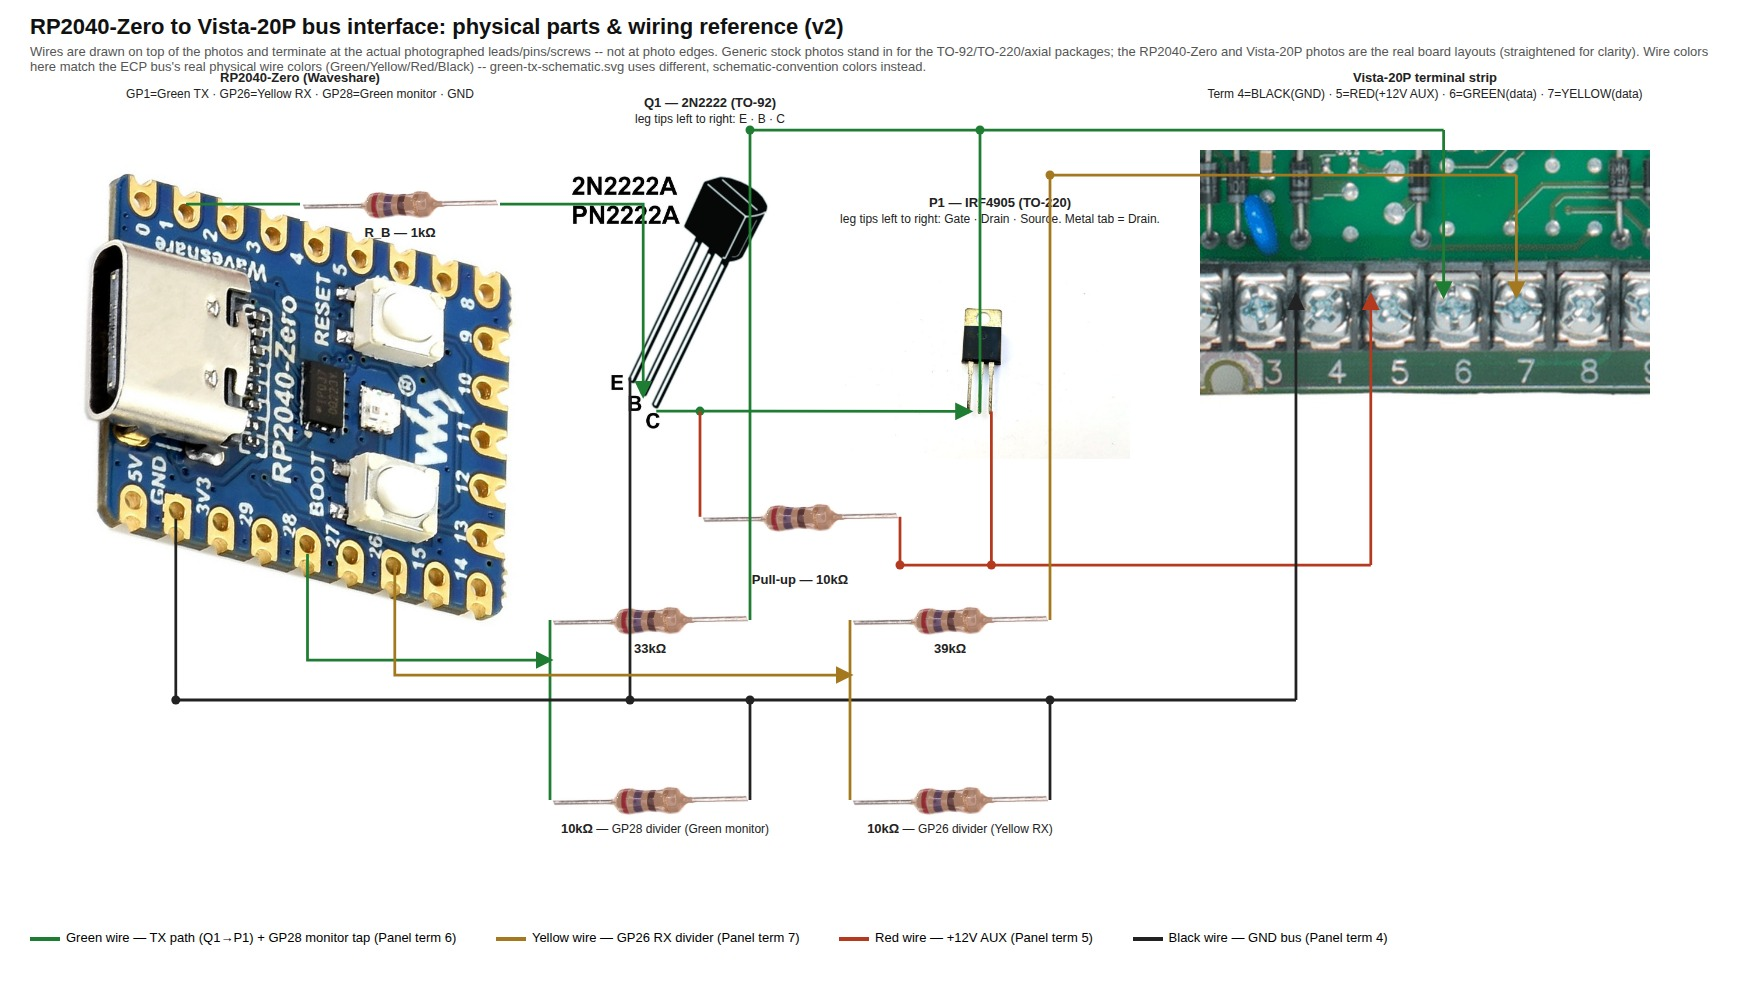
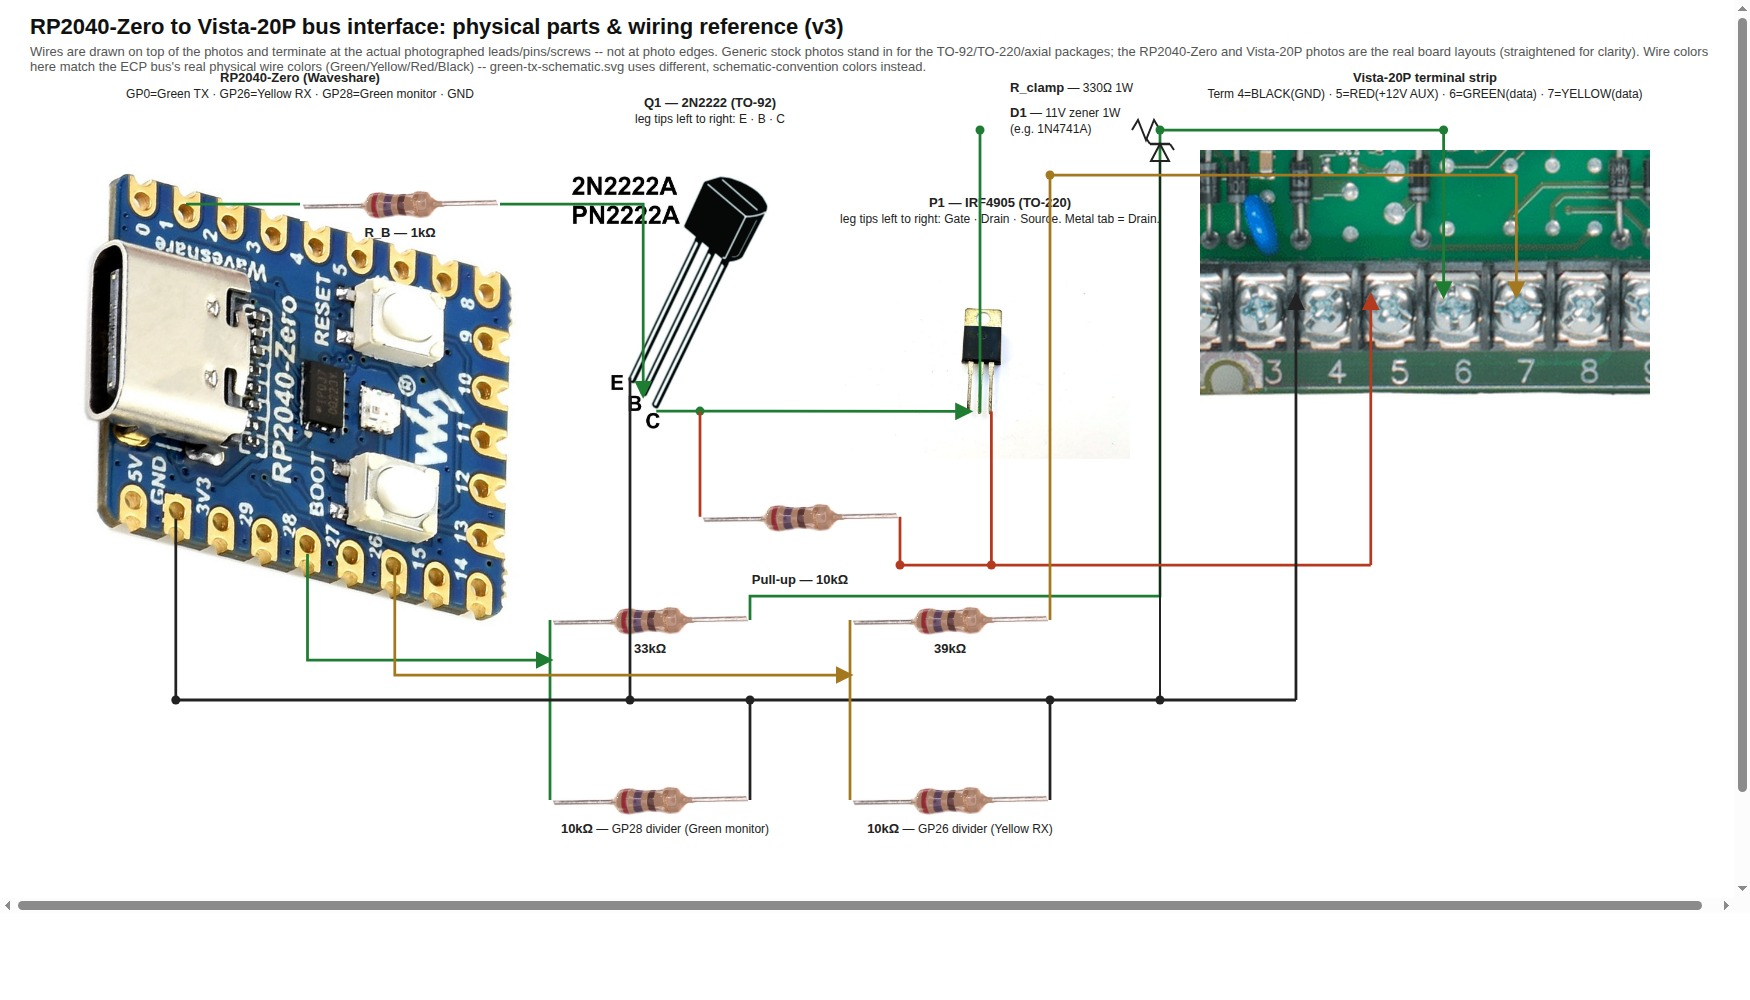
Add R_clamp+D1 voltage clamp to the Green TX diagrams; fix stale GP1 labels (#95)
Scoping a real keypad's key-send against our own device's, same bus,
same reference, same cursor measurement: the real keypad peaks at
~11.7V; our device (P1 sourcing Green directly from the raw AUX rail)
peaks at ~14.2V. That ~2.5V gap was invisible to every prior local
scope measurement in this project (always referenced to this board's
own ground) and only showed up once measured side by side against a
real keypad. It's the most concrete remaining difference found after
checksum, bit polarity, framing, batching, ack mechanism, and response
timing were each individually ruled out or verified correct.

Adds R_clamp (330 ohm) + D1 (11V zener, shunt to GND) between P1's
drain and Green in both docs/hardware/green-tx-schematic.svg and
green-tx-photo-reference.html (regenerating their .jpg renders), sized
against the bench-measured ~14V AUX rail with a fault-current margin
for a shorted bus. The GP28 monitor tap in both diagrams is rewired to
read the clamped side of that node, same as it would tap the same real
physical Green wire on the actual bench build.

Also fixes both diagrams' Green TX pin label, which still said GP1 from
before the GP0 pin move (PR #84) -- missed at the time since GP0 wasn't
yet confirmed working. Adds a matching dated update to
HARDWARE_ARCHITECTURE.md's "Still open" item 1.

Claude-Session: https://claude.ai/code/session_01LoZdpHVGNxDdSZK8Eq1p6C

diff --git a/docs/hardware/green-tx-photo-reference.html b/docs/hardware/green-tx-photo-reference.html
@@ -25,13 +25,13 @@
 </head>
 <body>
 
-  <div class="title">RP2040-Zero to Vista-20P bus interface: physical parts &amp; wiring reference (v2)</div>
+  <div class="title">RP2040-Zero to Vista-20P bus interface: physical parts &amp; wiring reference (v3)</div>
   <div class="subtitle">Wires are drawn on top of the photos and terminate at the actual photographed leads/pins/screws -- not at photo edges. Generic stock photos stand in for the TO-92/TO-220/axial packages; the RP2040-Zero and Vista-20P photos are the real board layouts (straightened for clarity). Wire colors here match the ECP bus's real physical wire colors (Green/Yellow/Red/Black) -- green-tx-schematic.svg uses different, schematic-convention colors instead.</div>
 
   <!-- ===== Photos (drawn first, wires layer on top of them) ===== -->
 
   <img class="part" src="photos/rp2040-zero.jpg" style="left:60px; top:150px; width:480px; height:498px;">
-  <div class="label" style="left:60px; top:70px; width:480px;"><b>RP2040-Zero (Waveshare)</b><br>GP1=Green TX &middot; GP26=Yellow RX &middot; GP28=Green monitor &middot; GND</div>
+  <div class="label" style="left:60px; top:70px; width:480px;"><b>RP2040-Zero (Waveshare)</b><br>GP0=Green TX &middot; GP26=Yellow RX &middot; GP28=Green monitor &middot; GND</div>
 
   <img class="part" src="photos/resistor.jpg" style="left:300px; top:187px; width:200px; height:33.6px;">
   <div class="label" style="left:300px; top:225px; width:200px;"><b>R_B &mdash; 1k&#937;</b></div>
@@ -44,6 +44,9 @@
 
   <img class="part" src="photos/to220-mosfet.jpg" style="left:830px; top:259px; width:300px; height:199.8px;">
   <div class="label" style="left:825px; top:195px; width:350px;"><b>P1 &mdash; IRF4905 (TO-220)</b><br>leg tips left to right: Gate &middot; Drain &middot; Source. Metal tab = Drain.</div>
+
+  <div class="label" style="left:1010px; top:80px; width:170px; text-align:left;"><b>R_clamp</b> &mdash; 330&#937; 1W</div>
+  <div class="label" style="left:1010px; top:105px; width:170px; text-align:left;"><b>D1</b> &mdash; 11V zener 1W<br>(e.g. 1N4741A)</div>
 
   <img class="part" src="photos/vista20p-terminals.jpg" style="left:1200px; top:150px; width:450px; height:291.2px;">
   <div class="label" style="left:1200px; top:70px; width:450px;"><b>Vista-20P terminal strip</b><br>Term 4=BLACK(GND) &middot; 5=RED(+12V AUX) &middot; 6=GREEN(data) &middot; 7=YELLOW(data)</div>
@@ -76,10 +79,39 @@
     <path d="M 980,412.6 L 980,130" stroke="#1e7d32" stroke-width="2.75" fill="none"/>
     <path d="M 307.5,554.1 L 307.5,660 L 550,660" stroke="#1e7d32" stroke-width="2.75" fill="none" marker-end="url(#aGreen)"/>
     <path d="M 550,620 L 550,800" stroke="#1e7d32" stroke-width="2.75" fill="none"/>
-    <path d="M 750,620 L 750,130" stroke="#1e7d32" stroke-width="2.75" fill="none"/>
-    <path d="M 750,130 L 1443.6,130" stroke="#1e7d32" stroke-width="2.75" fill="none"/>
-    <circle cx="750" cy="130" r="4.5" fill="#1e7d32"/>
+    <!-- 33k resistor's far lead (GP28 monitor divider's own "Green bus"
+         input) jogs right to join the rail at x=1160, on the clamped
+         side of R_clamp/D1 below; it needs to read the same clamped
+         voltage the panel itself sees, same as it would tap the same
+         real physical Green wire on the actual bench build (same fix as
+         green-tx-schematic.svg's Lane B). -->
+    <path d="M 750,620 L 750,596 L 1160,596 L 1160,130" stroke="#1e7d32" stroke-width="2.75" fill="none"/>
     <circle cx="980" cy="130" r="4.5" fill="#1e7d32"/>
+
+    <!-- R_clamp + D1: no stock photo for a zener, so drawn as plain
+         schematic symbols here rather than a photo -- see
+         green-tx-schematic.svg for the authoritative version. Kept at
+         x<1195 (the Vista-20P terminal photo starts at x=1200) so
+         nothing here overlaps it. Clamps P1's drain (raw AUX rail, ~14V
+         measured) down to roughly a real keypad's own output (~11.7V
+         measured) before Green reaches the panel; see
+         HARDWARE_ARCHITECTURE.md "Still open" item 1 for why. -->
+    <path d="M 1132,130 L 1138,120 L 1146,140 L 1154,120 L 1160,130" stroke="#222" stroke-width="2" fill="none"/>
+    <circle cx="1160" cy="130" r="4.5" fill="#1e7d32"/>
+    <path d="M 1160,130 L 1160,144" stroke="#1e7d32" stroke-width="2" fill="none"/>
+    <path d="M 1150,144 L 1170,144" stroke="#222" stroke-width="2.5" fill="none"/>
+    <path d="M 1150,144 L 1146,138" stroke="#222" stroke-width="2" fill="none"/>
+    <path d="M 1170,144 L 1174,150" stroke="#222" stroke-width="2" fill="none"/>
+    <path d="M 1151,161 L 1169,161 L 1160,144 Z" stroke="#222" stroke-width="2" fill="none"/>
+    <!-- Plain wire from here to GND -- the diode symbol itself stays
+         above y=161, clear of the gold Yellow-wire crossing at y=175
+         below (no junction dot there, see the note above Lane A in the
+         schematic for the same convention). -->
+    <path d="M 1160,161 L 1160,700" stroke="#222" stroke-width="2" fill="none"/>
+    <circle cx="1160" cy="700" r="4.5" fill="#222"/>
+
+    <path d="M 1160,130 L 1443.6,130" stroke="#1e7d32" stroke-width="2.75" fill="none"/>
+    <circle cx="1443.6" cy="130" r="4.5" fill="#1e7d32"/>
     <path d="M 1443.6,130 L 1443.6,295.6" stroke="#1e7d32" stroke-width="2.75" fill="none" marker-end="url(#aGreen)"/>
 
     <!-- Red: +12V AUX rail (Panel RED) -->
@@ -113,7 +145,7 @@
   </svg>
 
   <div class="legend">
-    <span class="row"><span class="swatch" style="background:#1e7d32;"></span>Green wire &mdash; TX path (Q1&rarr;P1) + GP28 monitor tap (Panel term 6)</span>
+    <span class="row"><span class="swatch" style="background:#1e7d32;"></span>Green wire &mdash; TX path (Q1&rarr;P1&rarr;R_clamp/D1) + GP28 monitor tap (Panel term 6)</span>
     <span class="row"><span class="swatch" style="background:#a3781f;"></span>Yellow wire &mdash; GP26 RX divider (Panel term 7)</span>
     <span class="row"><span class="swatch" style="background:#b5391f;"></span>Red wire &mdash; +12V AUX (Panel term 5)</span>
     <span class="row"><span class="swatch" style="background:#222;"></span>Black wire &mdash; GND bus (Panel term 4)</span>

diff --git a/HARDWARE_ARCHITECTURE.md b/HARDWARE_ARCHITECTURE.md
@@ -128,11 +128,11 @@ after GP1 was also found dead. GP1 itself is now unused.
 
 ### Complete bus interface schematic
 
-![RP2040-Zero to Vista-20P bus interface schematic: board silhouette (pin layout matching the Waveshare pinout reference photo) showing all circuits -- Green TX (GP1 through a 1kΩ base resistor to Q1, a 2N2222 NPN pre-driver, whose collector drives P1's gate through a 10kΩ pull-up to a new +12V AUX rail; P1, an IRF4905 P-channel MOSFET, sources current from that same AUX rail onto Green through its drain when Q1 pulls its gate low), the Green bus-monitor divider (GP28, 33k/10k), and the Yellow RX divider (GP26, 39k/10k) -- plus a shared GND bus tying the physical GND pin, Q1's emitter, and both dividers to the panel's GND terminal, and the Vista-20P's own 4-terminal bus block (GREEN, RED now wired as the +12V AUX source, BLACK, YELLOW) on the right](docs/hardware/green-tx-schematic.jpg)
+![RP2040-Zero to Vista-20P bus interface schematic: board silhouette (pin layout matching the Waveshare pinout reference photo) showing all circuits -- Green TX (GP0 through a 1kΩ base resistor to Q1, a 2N2222 NPN pre-driver, whose collector drives P1's gate through a 10kΩ pull-up to a new +12V AUX rail; P1, an IRF4905 P-channel MOSFET, sources current from that same AUX rail onto Green through its drain when Q1 pulls its gate low, through a 330Ω series resistor and an 11V zener shunt to GND that clamp Green's peak to roughly a real keypad's own output level instead of the raw AUX rail), the Green bus-monitor divider (GP28, 33k/10k, tapping the clamped side of that same node), and the Yellow RX divider (GP26, 39k/10k) -- plus a shared GND bus tying the physical GND pin, Q1's emitter, and both dividers to the panel's GND terminal, and the Vista-20P's own 4-terminal bus block (GREEN, RED now wired as the +12V AUX source, BLACK, YELLOW) on the right](docs/hardware/green-tx-schematic.jpg)
 
 (Source vector version: `docs/hardware/green-tx-schematic.svg`, same content.)
 
-Board silhouette and pin positions (GND/GP1 on the top board, GP26/GP27/
+Board silhouette and pin positions (GND/GP0 on the top board, GP26/GP27/
 GP28 further down the left column) match the Waveshare RP2040-Zero's own
 pinout reference photo. The board also breaks GND out again on its
 underside pin group (same net) — either GND pad works for the panel tie.
@@ -160,13 +160,26 @@ doesn't show visually:
   driving an idle-low line any higher, which is why neither of those
   earlier designs ever produced an effect on the bus. P1 instead sources
   current onto Green from the new +12V AUX rail; since P1's source sits
-  at +12V rather than GND, GP1 can't drive its gate directly (both logic
+  at +12V rather than GND, GP0 can't drive its gate directly (both logic
   levels would leave Vgs strongly negative), so Q1 acts as an
-  open-collector level shifter: GP1 high pulls Q1's collector (P1's gate)
-  down near 0V, giving P1 a strongly negative Vgs and turning it on; GP1
+  open-collector level shifter: GP0 high pulls Q1's collector (P1's gate)
+  down near 0V, giving P1 a strongly negative Vgs and turning it on; GP0
   low lets the 10kΩ pull-up hold P1's gate at +12V, Vgs=0, off. See
   "Still open" item 1 for the full story of why the low-side approach was
   abandoned after this was discovered.
+- **P1's drain doesn't drive Green straight from the raw AUX rail.**
+  Driving Green directly from P1's drain peaked at ~14.2V on scope
+  (cursor measurement) — a real keypad's own key-send peaks at only
+  ~11.7V on the same bus, measured the same way, same reference. That
+  gap was invisible from this project's own local measurements (always
+  referenced to this board's own ground) and only showed up once a real
+  keypad and this device were scoped side by side sending the same key.
+  A 330Ω series resistor (R_clamp) into an 11V zener (D1, shunt to GND)
+  now hold Green's peak to roughly what a real keypad itself produces
+  instead of the bare AUX rail — see "Still open" item 1's voltage-clamp
+  update for the full story, including why every other candidate
+  (checksum, bit polarity, framing, batching, ack mechanism, response
+  timing) was ruled out first.
 
 ### Physical parts & wiring photo reference
 
@@ -630,6 +643,43 @@ Vista panel keypad bus (4-wire ECP)
    the pin table above), which was already free. Physical wiring must move
    the 1kΩ base resistor's input lead from GP1 to GP0 to match. Live retest
    against the real panel on GP0 pending.
+
+   **Update (GP0 confirmed live, full high-side chain scope-verified, panel
+   still not accepting key data -- root cause found: Green's peak voltage):**
+   GP0 confirmed live and correctly toggling at the header; the signal
+   survives R_B to Q1's base with correct clamped diode behavior; node A
+   (Q1 collector/P1 gate) swings correctly between ~13.8V idle and ~0V in
+   sync with drive pulses; Green itself pulses correctly from ~0V idle up
+   to AUX rail voltage in sync. The whole redesigned high-side circuit is
+   electrically sound. Several non-hardware hypotheses were tested and
+   ruled out along the way: an `invertTx=false` firmware change (wrong —
+   flipped GP0's *idle* level to HIGH, which drove Green to the AUX rail
+   continuously from power-on and froze a real keypad on the same bus;
+   reverted); a `VISTA_FILTER_OWN_TX` interrupt-safety change (also
+   reverted -- didn't cause the freeze, but wasn't the fix either); batching
+   every queued key into one multi-byte ECP frame vs. one frame per key,
+   matching real keypad traffic exactly (`send_keys.py --one-at-a-time`,
+   no difference); and a ~2.5ms delay before responding to the panel's
+   invite, to match a real keypad's own measured response latency (no
+   difference). Checksum algorithm and bit polarity were independently
+   verified correct against real keypad frames captured off the bus.
+
+   The actual difference, found by scoping a real keypad's own key-send
+   and this device's key-send side by side on the same bus, same
+   reference, same cursor measurement: a real keypad peaks at ~11.7V:
+   this device, sourcing Green directly from P1's drain, peaks at
+   ~14.2V (the raw AUX rail). A ~2.5V gap invisible to any of this
+   project's own local scope work (always referenced to this board's own
+   ground) until measured directly against a real keypad. **Fix: R_clamp
+   (330Ω) + D1 (11V zener, shunt to GND) added between P1's drain and
+   Green**, clamping this device's output to roughly a real keypad's own
+   range instead of the bare AUX rail — see the "Complete bus interface
+   schematic" above for the current circuit. Sized against the
+   bench-measured ~14V AUX rail: normal operation drops ~3V across
+   R_clamp into D1 (~9mA); a dead short on Green drops the full AUX rail
+   across R_clamp (~14V/330Ω ≈ 42mA, ~0.6W) — both parts specified at 1W
+   for real margin against that fault case. **Pending: physical build and
+   live retest against the real panel.**
 2. **Battery capacity** — deliberately left undecided, and not needed
    during the development/testing phase — the build will run on isolated
    wall power (via the isolated USB-C/DC-DC charge path already in the
